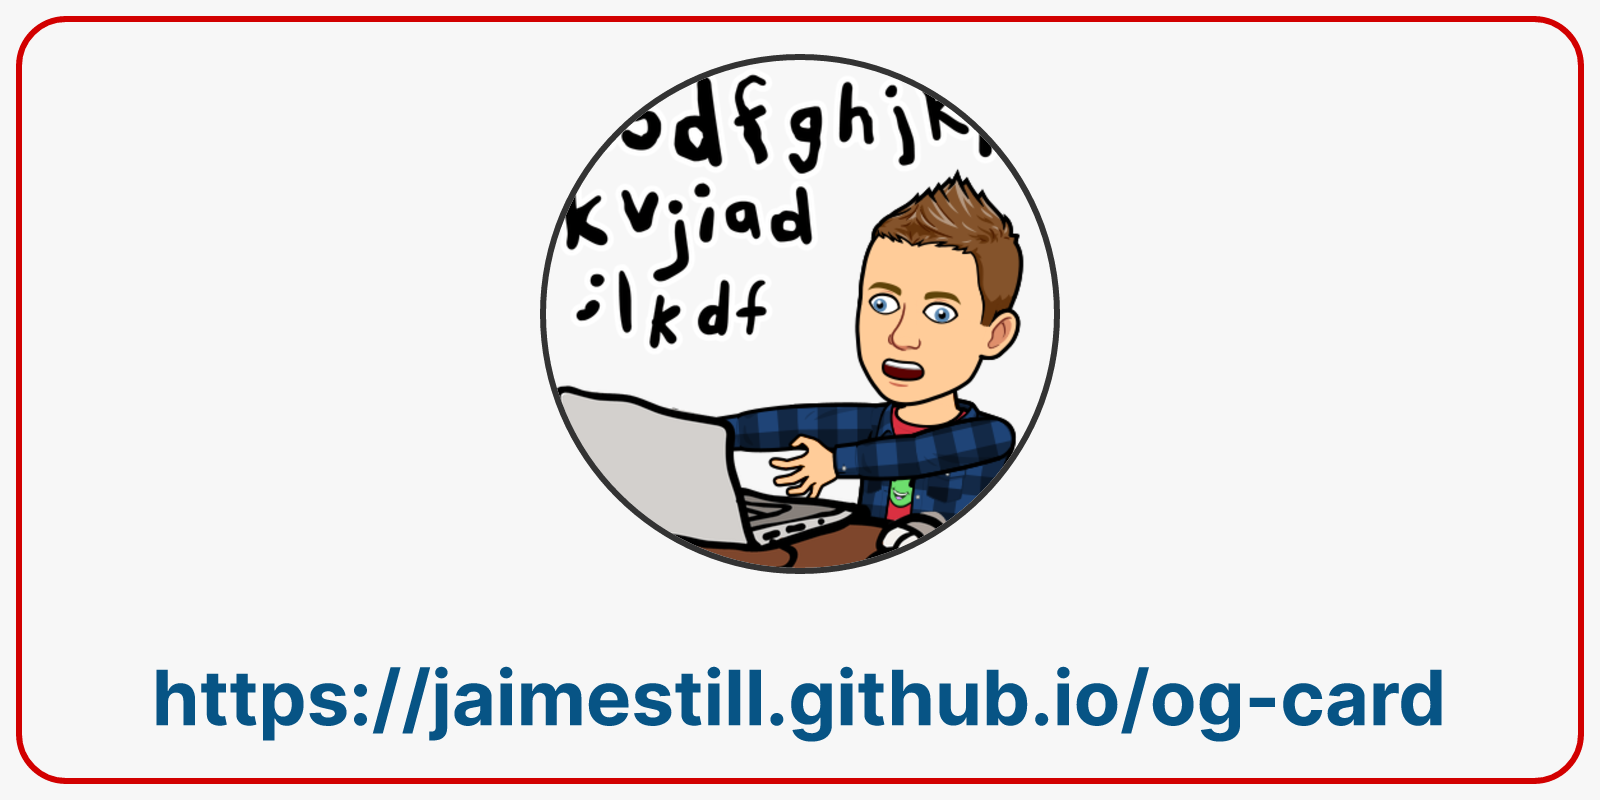
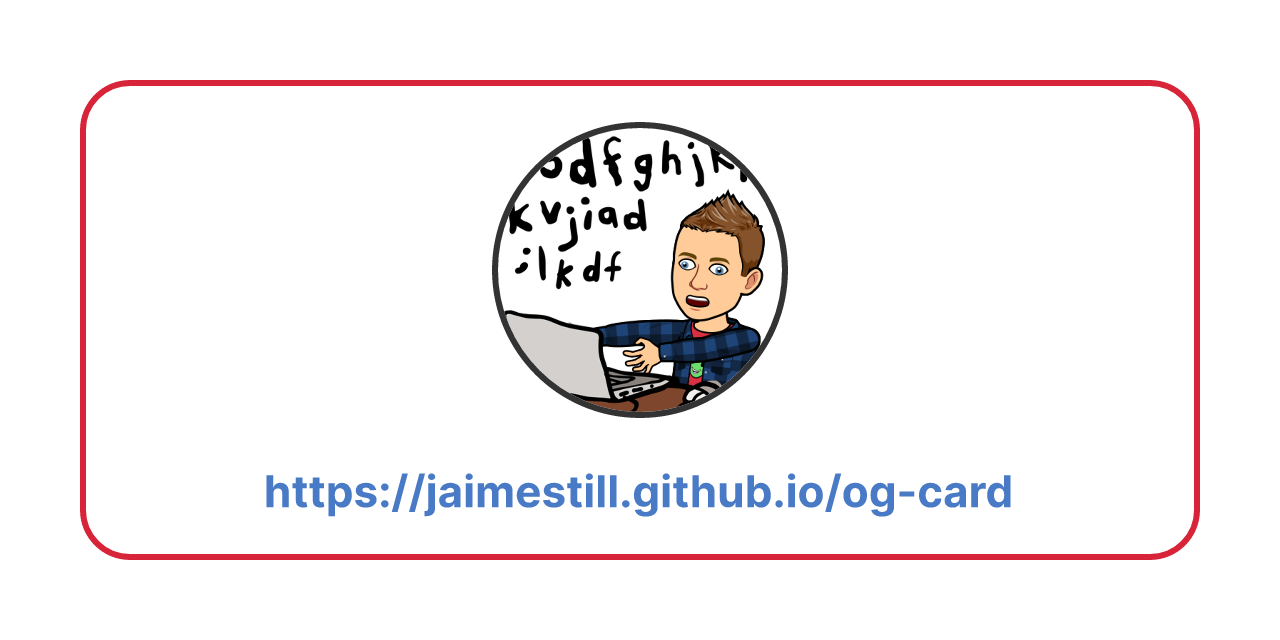
specify template and cleanup simple cards

diff --git a/designs/03-starfield/readme.md b/designs/03-starfield/readme.md
@@ -13,66 +13,78 @@ Inspired by the design of [Starfield](https://bethesda.net/en/game/starfield).
     width: '100%',
     display: 'flex',
     backgroundColor: '#ffffff',
-    fontSize: 38,
-    fontWeight: 600
+    fontWeight: 600,
+    fontSize: 22
   }}
 >
   <div
     style={{
-      height: '100%',
-      width: 24,
-      backgroundColor: '#cb213b'
-    }}
-  >
-  </div>
-  <div
-    style={{
-      height: '100%',
-      width: 24,
-      backgroundColor: '#e16235'
-    }}
-  >
-  </div>
-  <div
-    style={{
-      height: '100%',
-      width: 24,
-      backgroundColor: '#deaa47'
-    }}
-  >
-  </div>  
-  <div
-    style={{
-      height: '100%',
-      width: 24,
-      backgroundColor: '#305282'
-    }}
-  >
-  </div>
-  <div
-    style={{
       display: 'flex',
       flex: '1 1 auto',
-      flexDirection: 'column',
-      alignItems: 'center',
-      justifyContent: 'center'
+      margin: 40,
+      border: '3px solid #333333',
+      borderRadius: 25
     }}
   >
-    <img
-      src="https://avatars.githubusercontent.com/u/14102723?v=4"
-      height="260"
-      style={{
-        borderRadius: '50%',
-        border: '6px solid #333333'
-      }}
-    />
     <div
       style={{
-        marginTop: 40,
-        color: '#333333',
+        height: '100%',
+        width: 20,
+        backgroundColor: '#2d4b79',
+        borderTopLeftRadius: 25,
+        borderBottomLeftRadius: 25
       }}
     >
-      https://jaimestill.github.io/og-card
+    </div>
+    <div
+      style={{
+        height: '100%',
+        width: 20,
+        backgroundColor: '#daa74a'
+      }}
+    >
+    </div>
+    <div
+      style={{
+        height: '100%',
+        width: 20,
+        backgroundColor: '#df6135'
+      }}
+    >
+    </div>
+    <div
+      style={{
+        height: '100%',
+        width: 20,
+        backgroundColor: '#c82236'
+      }}
+    >
+    </div>
+    <div
+      style={{
+        display: 'flex',
+        flex: '1 1 auto',
+        flexDirection: 'column',
+        alignItems: 'center',
+        justifyContent: 'center',
+        gap: '24px'
+      }}
+    >
+      <img
+        src="https://avatars.githubusercontent.com/u/14102723?v=4"
+        height="148"
+        style={{
+          borderRadius: '50%',
+          border: '3px solid #333333'
+        }}
+      />
+      <div
+        style={{
+          color: '#333333'
+        }}
+      >
+        https://jaimestill.github.io/layered-api
+      </div>
     </div>
   </div>
 </div>

diff --git a/readme.md b/readme.md
@@ -2,11 +2,17 @@
 
 Used for generating link previews via [Vercel OG Image Playground](https://og-playground.vercel.app) for deployed Docusaurus sites.
 
+**Resolution**: `1280x640`
+
+> In the OG Playground, set the contaienr height and width to half of this resolution to generate an image at this resolution.
+
 **Current Card**: [03-starfield](./designs/03-starfield/)
 
 Profile picture by [bitmoji](https://www.bitmoji.com/).
 
 ![og-card](./designs/03-starfield/images/og-card.png)
+
+## Template
 
 ```jsx
 <div
@@ -15,66 +21,44 @@ Profile picture by [bitmoji](https://www.bitmoji.com/).
     width: '100%',
     display: 'flex',
     backgroundColor: '#ffffff',
-    fontSize: 38,
-    fontWeight: 600
+    fontWeight: 600,
+    fontSize: 22
   }}
 >
   <div
     style={{
-      height: '100%',
-      width: 24,
-      backgroundColor: '#cb213b'
-    }}
-  >
-  </div>
-  <div
-    style={{
-      height: '100%',
-      width: 24,
-      backgroundColor: '#e16235'
-    }}
-  >
-  </div>
-  <div
-    style={{
-      height: '100%',
-      width: 24,
-      backgroundColor: '#deaa47'
-    }}
-  >
-  </div>  
-  <div
-    style={{
-      height: '100%',
-      width: 24,
-      backgroundColor: '#305282'
-    }}
-  >
-  </div>
-  <div
-    style={{
       display: 'flex',
       flex: '1 1 auto',
-      flexDirection: 'column',
-      alignItems: 'center',
-      justifyContent: 'center'
+      margin: 40,
+      border: '3px solid #333333',
+      borderRadius: 25
     }}
   >
-    <img
-      src="https://avatars.githubusercontent.com/u/14102723?v=4"
-      height="260"
-      style={{
-        borderRadius: '50%',
-        border: '6px solid #333333'
-      }}
-    />
     <div
       style={{
-        marginTop: 40,
-        color: '#333333',
+        display: 'flex',
+        flex: '1 1 auto',
+        flexDirection: 'column',
+        alignItems: 'center',
+        justifyContent: 'center',
+        gap: '24px'
       }}
     >
-      https://jaimestill.github.io/og-card
+      <img
+        src="https://avatars.githubusercontent.com/u/14102723?v=4"
+        height="148"
+        style={{
+          borderRadius: '50%',
+          border: '3px solid #333333'
+        }}
+      />
+      <div
+        style={{
+          color: '#333333'
+        }}
+      >
+        https://jaimestill.github.io/repository
+      </div>
     </div>
   </div>
 </div>

diff --git a/designs/02-simple-rb/readme.md b/designs/02-simple-rb/readme.md
@@ -10,40 +10,45 @@ Profile picture by [bitmoji](https://www.bitmoji.com/).
     height: '100%',
     width: '100%',
     display: 'flex',
-    backgroundColor: '#f7f7f7',
-    fontSize: 38,
+    backgroundColor: '#ffffff',
     fontWeight: 600,
-    borderRadius: 25
+    fontSize: 22
   }}
 >
   <div
     style={{
       display: 'flex',
       flex: '1 1 auto',
-      flexDirection: 'column',
-      alignItems: 'center',
-      justifyContent: 'center',
-      margin: 8,
-      padding: 8,
-      border: '3px solid #d20000',
+      margin: 40,
+      border: '3px solid #d82439',
       borderRadius: 25
     }}
   >
-    <img
-      src="https://avatars.githubusercontent.com/u/14102723?v=4"
-      height="260"
-      style={{
-        borderRadius: '50%',
-        border: '3px solid #333'
-      }}
-    />
     <div
       style={{
-        marginTop: 40,
-        color: '#075485',
+        display: 'flex',
+        flex: '1 1 auto',
+        flexDirection: 'column',
+        alignItems: 'center',
+        justifyContent: 'center',
+        gap: '24px'
       }}
     >
-      https://jaimestill.github.io/og-card
+      <img
+        src="https://avatars.githubusercontent.com/u/14102723?v=4"
+        height="148"
+        style={{
+          borderRadius: '50%',
+          border: '3px solid #333'
+        }}
+      />
+      <div
+        style={{
+          color: '#497ac5'
+        }}
+      >
+        https://jaimestill.github.io/og-card
+      </div>
     </div>
   </div>
 </div>
